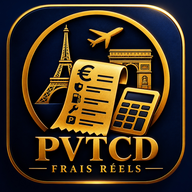
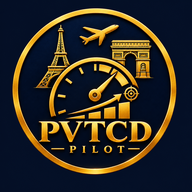
PVTCD PILOT : CA du jour, km, plateformes, objectif du mois, nouvelle icone

diff --git a/apps/frais-reels/index.html b/apps/frais-reels/index.html
@@ -7,10 +7,10 @@
 <meta name="theme-color" content="#101827">
 <meta name="apple-mobile-web-app-capable" content="yes">
 <meta name="apple-mobile-web-app-status-bar-style" content="black-translucent">
-<meta name="apple-mobile-web-app-title" content="PVTC Frais">
+<meta name="apple-mobile-web-app-title" content="PVTCD PILOT">
 <link rel="manifest" href="manifest.webmanifest">
 <link rel="apple-touch-icon" href="icon-192.png">
-<title>ParisVTCDriver — Gestion des frais</title>
+<title>PVTCD PILOT — Suivi de rentabilité</title>
 <style>
 :root{--navy:#101827;--navy2:#202e43;--gold:#d6ad63;--gold2:#f0d49c;--ink:#172033;--muted:#718096;--line:#e7ebf1;--bg:#f3f5f8;--white:#fff;--green:#168568;--red:#c64c4c}
 *{box-sizing:border-box}body{margin:0;background:var(--bg);font-family:-apple-system,BlinkMacSystemFont,"Segoe UI",sans-serif;color:var(--ink);padding-bottom:calc(28px + env(safe-area-inset-bottom))}
@@ -65,6 +65,7 @@ input[type=date],input[type=month]{-webkit-appearance:none;appearance:none;displ
 .goalbtn{border:1px dashed #d6ad6399;background:#d6ad631a;color:var(--gold2);border-radius:10px;padding:7px 10px;font:inherit;font-size:14px;font-weight:800}
 .goalform{margin-top:10px;background:#ffffff12;border:1px solid #d6ad6366;border-radius:12px;padding:12px}.goalform label{font-size:12px;color:#dbe2ec;font-weight:700}.goalrow{display:flex;gap:8px;margin-top:7px}.goalrow input{flex:1;min-width:0;border:2px solid var(--gold);background:#ffffff12;color:#fff;border-radius:10px;padding:10px;font:inherit;font-size:20px;font-weight:800;min-height:48px}.goalrow button{border:0;border-radius:10px;background:var(--gold);color:#101827;font-weight:900;padding:0 18px;min-height:48px}
 .goalhint{font-size:11px;color:#aeb9c9;margin-top:7px;line-height:1.4}.goalreset{border:0;background:none;color:var(--gold2);font:inherit;font-size:12px;font-weight:700;padding:8px 0 0}
+.wdrow{display:flex;align-items:center;gap:8px;margin-top:12px;padding-top:12px;border-top:1px solid #ffffff1a}.wdrow label{flex:1;font-size:13px;color:#dbe2ec;font-weight:700}.wdrow input{width:78px;min-width:0;border:1px solid #d6ad6399;background:#ffffff12;color:#fff;border-radius:10px;padding:9px;font:inherit;font-size:17px;font-weight:800;text-align:center;min-height:44px}.wdrow input::placeholder{color:#9aa6b8;font-weight:600;font-size:13px}.wdrow button{border:0;border-radius:10px;background:#ffffff26;color:#fff;font-weight:800;padding:0 14px;min-height:44px}
 .footer{text-align:center;color:#8993a2;font-size:10px;padding:12px}.hidden{display:none!important}
 @media(min-width:600px){main{padding:22px}.total{font-size:40px}.section{padding:19px}}
 </style>
@@ -72,8 +73,8 @@ input[type=date],input[type=month]{-webkit-appearance:none;appearance:none;displ
 <body>
 
 <header>
- <div class="brand"><img class="mark" src="icon-192.png" alt="Logo ParisVTCDriver Frais réels"><div><div class="brandname">PARIS VTC DRIVER</div><div class="subbrand">OUTIL DE GESTION INTERNE</div></div></div>
- <div class="headerrow"><div><div class="eyebrow">Pilotage de votre activité</div><h1>Suivi des frais réels</h1></div><input id="month" class="month" type="month" aria-label="Mois affiché"></div>
+ <div class="brand"><img class="mark" src="icon-192.png" alt="Logo PVTCD PILOT"><div><div class="brandname">PARIS VTC DRIVER</div><div class="subbrand">OUTIL DE GESTION INTERNE</div></div></div>
+ <div class="headerrow"><div><div class="eyebrow">Pilotage de votre activité</div><h1>Suivi de rentabilité</h1></div><input id="month" class="month" type="month" aria-label="Mois affiché"></div>
 </header>
 <main>
  <section class="hero">
@@ -93,6 +94,7 @@ input[type=date],input[type=month]{-webkit-appearance:none;appearance:none;displ
    <div class="monthdone"><span id="mDone">0,00 €</span> <small id="mPct"></small></div>
    <div class="progress" id="mBarWrap"><div id="mBar" style="width:0%"></div></div>
    <div class="leftline"><span id="mLeftLbl">Reste à faire</span><strong id="mLeft">—</strong></div>
+   <form class="wdrow" id="wdForm"><label for="wdInput">📅 Jours travaillés ce mois</label><input id="wdInput" type="number" min="0" max="31" step="1" inputmode="numeric" placeholder="Ex. 22"><button type="submit">OK</button></form>
    <div class="monthkm"><span>Km du mois <b id="mKm">0 km</b></span><span>Carburant estimé <b id="mFuel">—</b></span></div>
    <div class="goalhint" id="mGoalMode" style="text-align:center;margin-top:8px"></div>
    <div class="hint" id="mMsg" style="color:#c2cbd8;margin-top:6px;text-align:center"></div>
@@ -158,7 +160,7 @@ input[type=date],input[type=month]{-webkit-appearance:none;appearance:none;displ
   <div class="formgrid">
    <div class="field"><label for="revenue">Chiffre d'affaires TTC (€)</label><input id="revenue" type="number" min="0" step="0.01" placeholder="0,00"><div class="hint" id="revenueHint"></div></div>
    <div class="field"><label for="km">Kilomètres du mois</label><input id="km" type="number" min="0" step="1" placeholder="Ex. 1800"><div class="hint" id="kmHint"></div></div>
-   <div class="field"><label for="days">Jours travaillés</label><input id="days" type="number" min="0" step="1" placeholder="Ex. 18"></div>
+   <div class="field"><label for="days">Jours travaillés (prévus)</label><input id="days" type="number" min="0" step="1" placeholder="Ex. 18"></div>
   </div>
   <div class="actions"><button class="btn" id="savePerformance" type="button">Enregistrer les chiffres</button></div>
   <div class="kpis">
@@ -232,6 +234,7 @@ function monthExpenses(m=mth()){return data.expenses.filter(e=>e.date&&e.date.sl
 function monthRevenues(m=mth()){return data.revenues.filter(r=>r.date&&r.date.slice(0,7)===m)}
 const DEFAULT_PLATFORMS=['Bolt','Uber','Allocab','PVTCD','Groupe WhatsApp','Autre'];if(!Array.isArray(data.platforms)||!data.platforms.length)data.platforms=DEFAULT_PLATFORMS.slice();
 let curPlat=(()=>{try{return localStorage.getItem('fr_last_plat')||data.platforms[0]}catch(e){return data.platforms[0]}})();
+function caItems0(m){return data.revenues.filter(r=>r.date&&r.date.slice(0,7)===m)}
 function goalFor(m){const ks=Object.keys(data.goals||{}).filter(k=>k<=m&&Number(data.goals[k])>0).sort();return ks.length?Number(data.goals[ks[ks.length-1]]):null}
 function monthKm(m){return Object.entries(data.dayKm).filter(([d])=>d.slice(0,7)===m).reduce((s,[,k])=>s+(Number(k)||0),0)}
 function perf(m=mth()){const p=data.performance[m]||{revenue:0,km:0,days:0},daily=monthRevenues(m),dkm=monthKm(m),base={...p,km:dkm>0?dkm:p.km,kmDaily:dkm>0};if(!daily.length)return {...base,fromDaily:false};const wd=new Set(daily.map(r=>r.date)).size;return {...base,revenue:daily.reduce((s,r)=>s+Number(r.amount||0),0),workedDays:wd,fromDaily:true}}
@@ -275,14 +278,16 @@ function render(){
  $('mGoal').textContent=goal>0?money(goal):'—';$('mDone').textContent=money(done);$('mPct').textContent=goal>0?Math.round(done/goal*100)+' %':'';
  $('mBar').style.width=pct+'%';$('mBarWrap').classList.toggle('done',reached);
  $('mLeftLbl').textContent=reached?(customGoal?'Au-dessus de l\'objectif':'Au-dessus du seuil'):'Reste à faire';$('mLeft').textContent=goal>0?money(reached?done-goal:left):'—';$('mLeft').className=reached?'ok':'';
- const todayStr=localDate(new Date()),[ty,tm]=todayStr.slice(0,7).split('-').map(Number),dim=new Date(+yy,+mm,0).getDate(),isCur=(+yy===ty&&+mm===tm),dLeft=isCur?dim-new Date().getDate()+1:0;
+ const todayStr=localDate(new Date()),[ty,tm]=todayStr.slice(0,7).split('-').map(Number),dim=new Date(+yy,+mm,0).getDate(),isCur=(+yy===ty&&+mm===tm),calLeft=isCur?dim-new Date().getDate()+1:0;
+ const planned=Number(raw.days)||0,workedBefore=new Set(caItems0(m).filter(r=>r.date<todayStr).map(r=>r.date)).size,dLeft=!isCur?0:planned>0?Math.max(1,Math.min(calLeft,planned-workedBefore)):calLeft;
+ if(document.activeElement!==$('wdInput'))$('wdInput').value=planned||'';
  const tDone=data.revenues.filter(r=>r.date===todayStr).reduce((s2,r)=>s2+Number(r.amount||0),0);
  const leftAtMorning=Math.max(0,goal-(isCur?done-tDone:done)),tGoal=isCur&&dLeft>0&&goal>0?leftAtMorning/dLeft:null;
  $('todayBlock').classList.toggle('hidden',!isCur);
  $('tDone').textContent=money(tDone);const tOk=tGoal!=null&&tDone>=tGoal&&(tGoal>0||tDone>0);$('tDone').classList.toggle('ok',tOk);
  $('tGoal').className='todaygoal'+(tOk?' ok':'');
  $('tGoal').textContent=goal<=0?'Fixez un objectif ou renseignez vos charges':tGoal==null?'—':tGoal<=0?'✅ Mois déjà rentable !':tOk?'✅ Objectif du jour atteint ('+money(tGoal)+')':'🎯 Objectif du jour : '+money(tGoal)+' · encore '+money(tGoal-tDone);
- $('mMsg').textContent=goal<=0?'Renseignez vos charges fixes pour calculer l\'objectif.':reached?(customGoal?'✓ Objectif du mois atteint !':'✓ Vos frais du mois sont couverts.'):isCur&&dLeft>0?'Objectif du jour = reste à faire ÷ '+dLeft+' jour'+(dLeft>1?'s':'')+' restant'+(dLeft>1?'s':'')+' (aujourd\'hui inclus).':'';
+ $('mMsg').textContent=goal<=0?'Renseignez vos charges fixes ou fixez un objectif.':reached?(customGoal?'✓ Objectif du mois atteint !':'✓ Vos frais du mois sont couverts.'):isCur&&dLeft>0?(planned>0?'Objectif du jour = reste à faire ÷ '+dLeft+' jour'+(dLeft>1?'s':'')+' travaillé'+(dLeft>1?'s':'')+' restant'+(dLeft>1?'s':'')+' ('+planned+' prévus, '+workedBefore+' déjà faits).':'Objectif du jour calculé sur les '+dLeft+' jours restants du mois. Indiquez vos jours travaillés pour plus de précision.'):'';
  const caItems=monthRevenues(m).sort((a,b)=>b.date.localeCompare(a.date)||b.id.localeCompare(a.id));
  const epk0=energyPerKm(),fuel=k=>epk0>0?k*epk0:null,mKm=monthKm(m),mCa=caItems.reduce((s2,r)=>s2+Number(r.amount||0),0);
  $('caMonthTotal').textContent=money(mCa);$('caMonthKm').textContent=mKm.toLocaleString('fr-FR')+' km';$('caMonthFuel').textContent=fuel(mKm)!=null?money(fuel(mKm)):'—';$('caMonthNet').textContent=fuel(mKm)!=null?money(mCa-fuel(mKm)):'—';
@@ -347,6 +352,7 @@ $('addPlatForm').addEventListener('submit',e=>{e.preventDefault();const nv=$('ne
 $('goalEditBtn').addEventListener('click',()=>{$('goalForm').classList.toggle('hidden');if(!$('goalForm').classList.contains('hidden'))$('goalInput').focus()});
 $('goalForm').addEventListener('submit',e=>{e.preventDefault();const v=Number($('goalInput').value);if(!(v>0)){$('goalInput').focus();return}data.goals[mth()]=v;$('goalInput').blur();$('goalForm').classList.add('hidden');save();toast('Objectif fixé à '+money(v)+' ✓')});
 $('goalReset').addEventListener('click',()=>{delete data.goals[mth()];$('goalForm').classList.add('hidden');save();toast('Objectif auto rétabli')});
+$('wdForm').addEventListener('submit',e=>{e.preventDefault();const v=Math.max(0,Math.min(31,Math.round(Number($('wdInput').value)||0)));const m=mth(),cur=data.performance[m]||{revenue:0,km:0,days:0};data.performance[m]={...cur,days:v};$('wdInput').blur();save();toast(v?v+' jours travaillés ✓':'Jours travaillés effacés')});
 $('kmQuick').addEventListener('submit',e=>{e.preventDefault();if($('qKm').value===''){$('qKm').focus();return}document.activeElement.blur();setDayKm(localDate(new Date()),$('qKm').value)});
 $('kmForm').addEventListener('submit',e=>{e.preventDefault();const d=$('kmDate').value||localDate(new Date());if($('kmVal').value===''){$('kmVal').focus();return}setDayKm(d,$('kmVal').value);$('kmVal').value='';$('kmDate').value=localDate(new Date())});
 $('quickCa').addEventListener('submit',e=>{e.preventDefault();const amount=Number($('qAmount').value);if(!(amount>0))return;$('qAmount').value='';document.activeElement.blur();addRevenue(localDate(new Date()),amount,'',curPlat)});

diff --git a/apps/frais-reels/sw.js b/apps/frais-reels/sw.js
@@ -1,1 +1,1 @@
-const CACHE='pvtc-frais-v12';const FILES=['./','./index.html','../access-gate.js','./manifest.webmanifest','./icon-192.png','./icon-512.png'];self.addEventListener('install',e=>e.waitUntil(caches.open(CACHE).then(c=>c.addAll(FILES))));self.addEventListener('activate',e=>e.waitUntil(caches.keys().then(keys=>Promise.all(keys.filter(k=>k!==CACHE).map(k=>caches.delete(k))))));self.addEventListener('fetch',e=>{if(e.request.method==='GET')e.respondWith(caches.match(e.request).then(r=>r||fetch(e.request).catch(()=>caches.match('./index.html'))))});
+const CACHE='pvtc-frais-v15';const FILES=['./','./index.html','../access-gate.js','./manifest.webmanifest','./icon-192.png','./icon-512.png'];self.addEventListener('install',e=>e.waitUntil(caches.open(CACHE).then(c=>c.addAll(FILES))));self.addEventListener('activate',e=>e.waitUntil(caches.keys().then(keys=>Promise.all(keys.filter(k=>k!==CACHE).map(k=>caches.delete(k))))));self.addEventListener('fetch',e=>{if(e.request.method==='GET')e.respondWith(caches.match(e.request).then(r=>r||fetch(e.request).catch(()=>caches.match('./index.html'))))});
